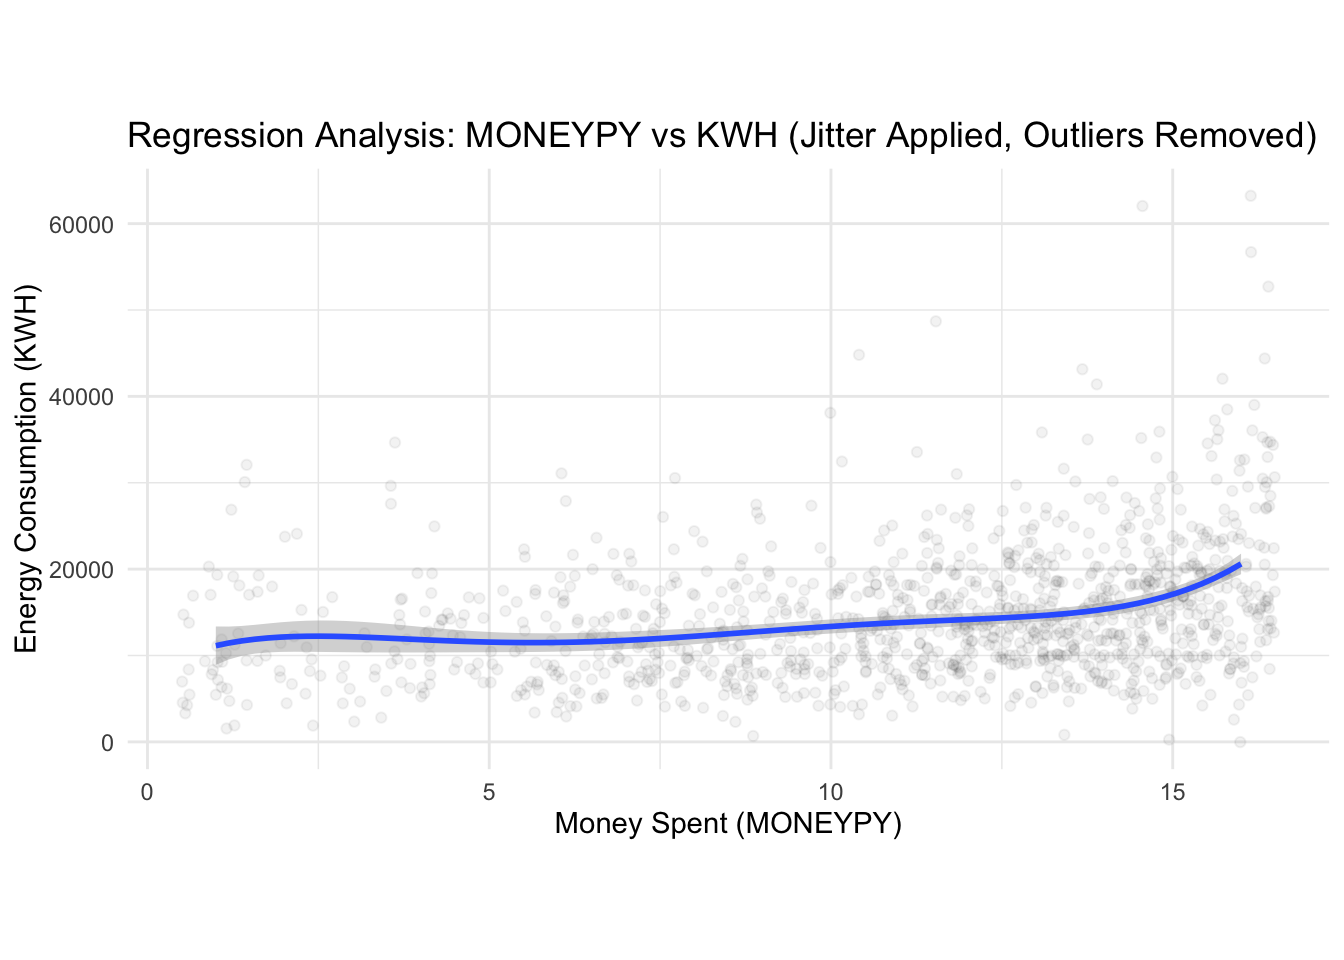
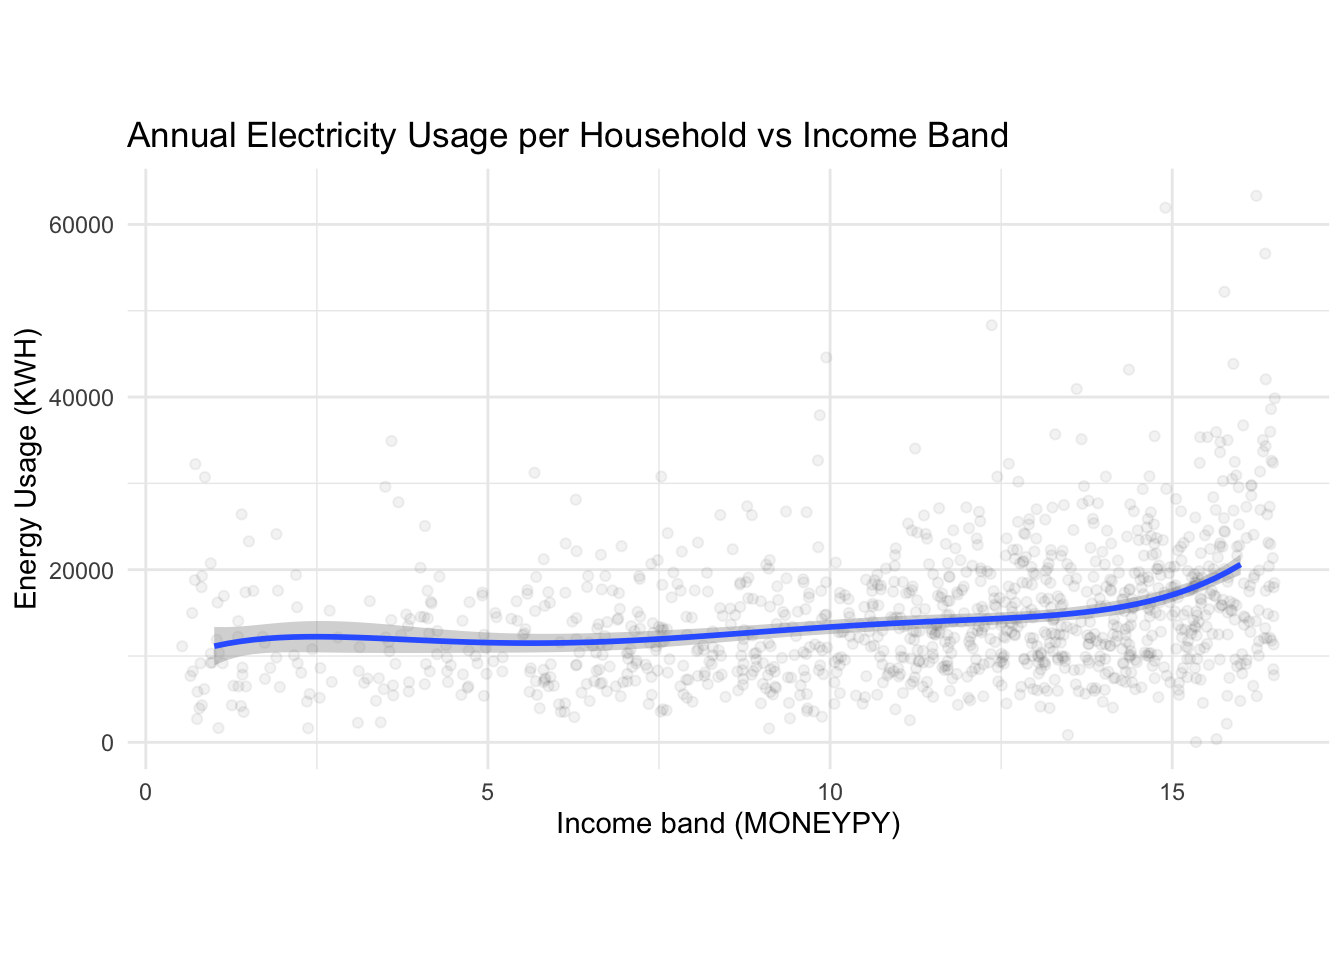
FINAL

diff --git a/docs/results.html b/docs/results.html
@@ -544,9 +544,9 @@ Attaching package: 'maps'</code></pre>
 <div class="sourceCode cell-code" id="cb18"><pre class="sourceCode r code-with-copy"><code class="sourceCode r"><span id="cb18-1"><a href="#cb18-1" aria-hidden="true" tabindex="-1"></a><span class="fu">ggplot</span>(filtered_data, <span class="fu">aes</span>(<span class="at">x =</span> MONEYPY, <span class="at">y =</span> KWH)) <span class="sc">+</span></span>
 <span id="cb18-2"><a href="#cb18-2" aria-hidden="true" tabindex="-1"></a>  <span class="fu">geom_jitter</span>(<span class="at">alpha =</span> <span class="fl">0.05</span>, <span class="at">width =</span> <span class="fl">0.5</span>, <span class="at">height =</span> <span class="dv">500</span>) <span class="sc">+</span> </span>
 <span id="cb18-3"><a href="#cb18-3" aria-hidden="true" tabindex="-1"></a>  <span class="fu">geom_smooth</span>(<span class="at">method =</span> <span class="st">"lm"</span>, <span class="at">formula =</span> y <span class="sc">~</span> <span class="fu">poly</span>(x, <span class="dv">5</span>)) <span class="sc">+</span></span>
-<span id="cb18-4"><a href="#cb18-4" aria-hidden="true" tabindex="-1"></a>  <span class="fu">labs</span>(<span class="at">title =</span> <span class="st">"Regression Analysis: MONEYPY vs KWH (Jitter Applied, Outliers Removed)"</span>,</span>
-<span id="cb18-5"><a href="#cb18-5" aria-hidden="true" tabindex="-1"></a>       <span class="at">x =</span> <span class="st">"Money Spent (MONEYPY)"</span>,</span>
-<span id="cb18-6"><a href="#cb18-6" aria-hidden="true" tabindex="-1"></a>       <span class="at">y =</span> <span class="st">"Energy Consumption (KWH)"</span>) <span class="sc">+</span></span>
+<span id="cb18-4"><a href="#cb18-4" aria-hidden="true" tabindex="-1"></a>  <span class="fu">labs</span>(<span class="at">title =</span> <span class="st">"Annual Electricity Usage per Household vs Income Band"</span>,</span>
+<span id="cb18-5"><a href="#cb18-5" aria-hidden="true" tabindex="-1"></a>       <span class="at">x =</span> <span class="st">"Income band (MONEYPY)"</span>,</span>
+<span id="cb18-6"><a href="#cb18-6" aria-hidden="true" tabindex="-1"></a>       <span class="at">y =</span> <span class="st">"Energy Usage (KWH)"</span>) <span class="sc">+</span></span>
 <span id="cb18-7"><a href="#cb18-7" aria-hidden="true" tabindex="-1"></a>  <span class="fu">theme_minimal</span>()<span class="sc">+</span></span>
 <span id="cb18-8"><a href="#cb18-8" aria-hidden="true" tabindex="-1"></a>  <span class="fu">theme</span>(<span class="at">aspect.ratio =</span> <span class="fl">0.5</span>)</span></code><button title="Copy to Clipboard" class="code-copy-button"><i class="bi"></i></button></pre></div>
 </details>
